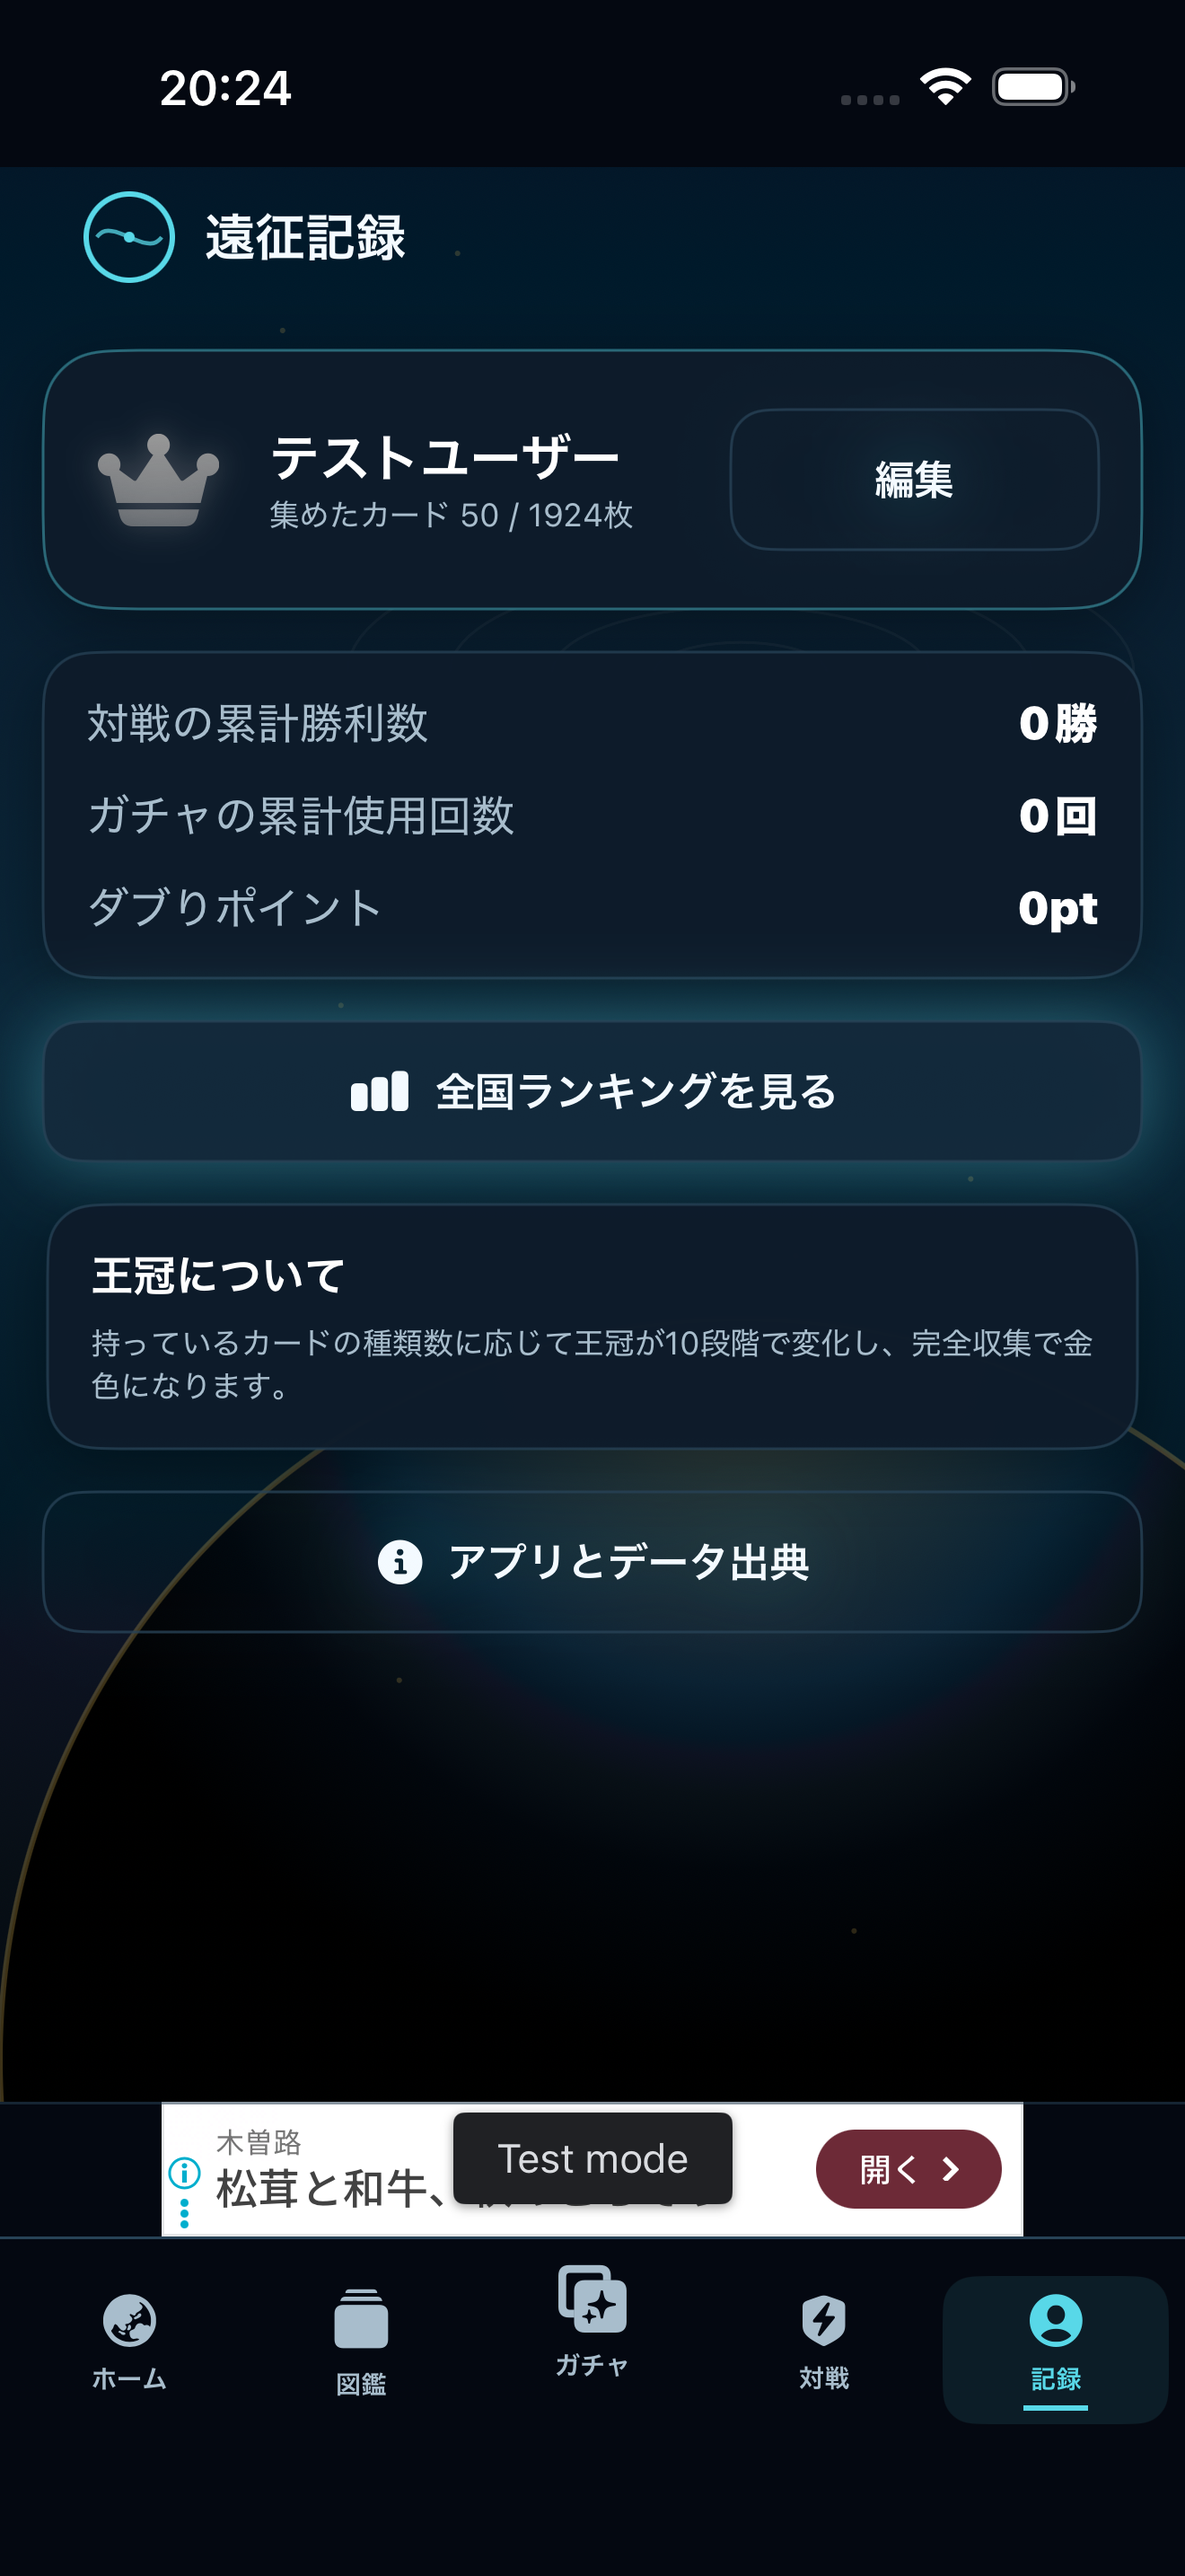
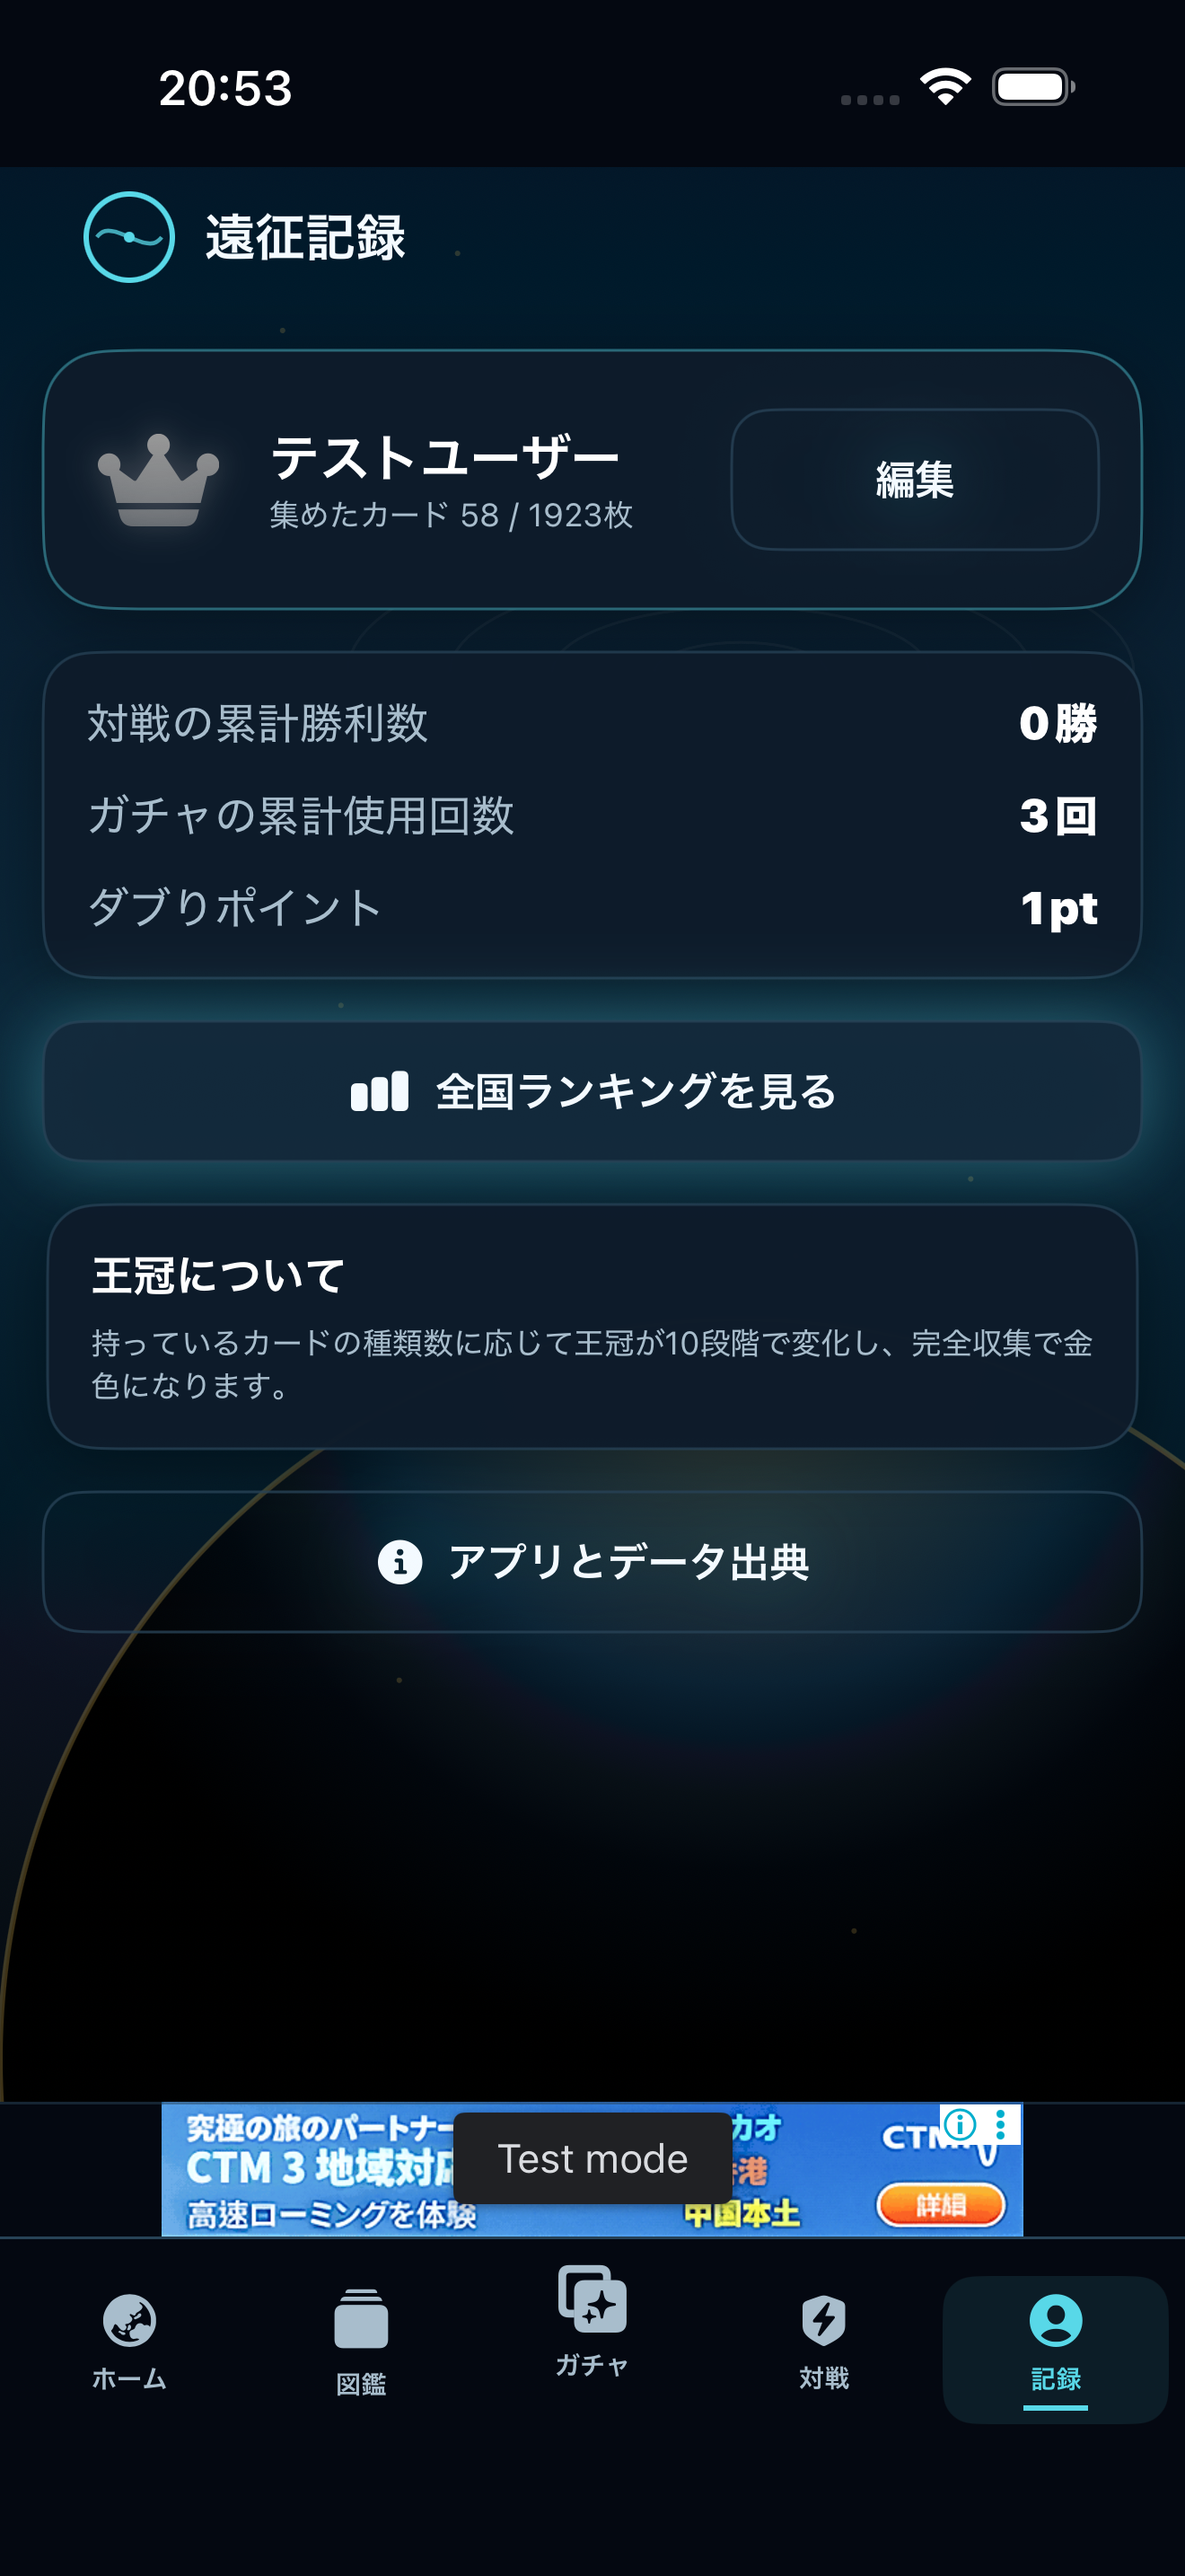
fix(CountryCards): resolve total card count double-count (1924→1923)
totalCardCountIncludingSpecial summed cards.count + specialCards.count,
but cards already includes the special North Korea GDP card, so the
total was off by one. This also fed CrownTier's gold-crown threshold,
making full completion (all 1,923 cards) unreachable. Now uses
cards.count directly; retook the profile screenshot to reflect the
corrected "1923" total.

Changed region(s): [[0.1242, 0.8068, 0.8697, 0.8689], [0.1864, 0.031, 0.2485, 0.0621], [0.8697, 0.3414, 0.9008, 0.3724]]

diff --git a/apps/CountryCards/CountryCards/Models/CardDatabase.swift b/apps/CountryCards/CountryCards/Models/CardDatabase.swift
@@ -116,7 +116,14 @@ final class CardDatabase: ObservableObject {
     }
 
     /// 全カード種類数(特別カードを含む)。図鑑トップのコンプリート率表示に使う。
+    ///
+    /// 注意:`cards`配列はcards.json内の全カード(特別カードも含む)をそのまま
+    /// 保持しており、`specialCards`はその中から特別カードだけを抜き出した
+    /// 「部分集合」に過ぎない。そのため`cards.count + specialCards.count`と
+    /// 足し算すると特別カード分を二重に数えてしまうバグがあった(1923枚のはずが
+    /// 1924枚と表示される不具合の原因)。`cards.count`だけで全カード数(特別
+    /// カード込み)が求まる。
     var totalCardCountIncludingSpecial: Int {
-        cards.count + specialCards.count
+        cards.count
     }
 }
